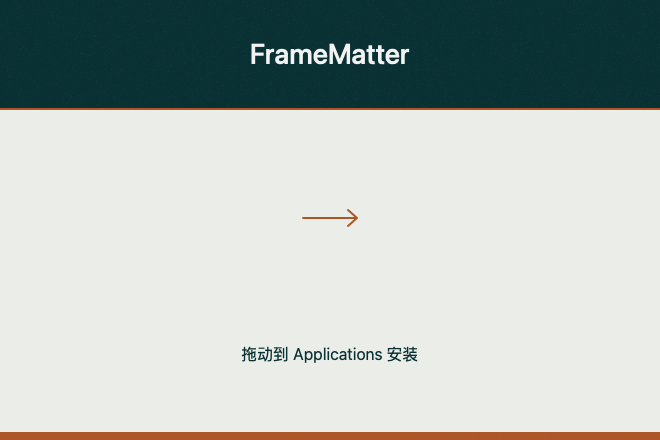
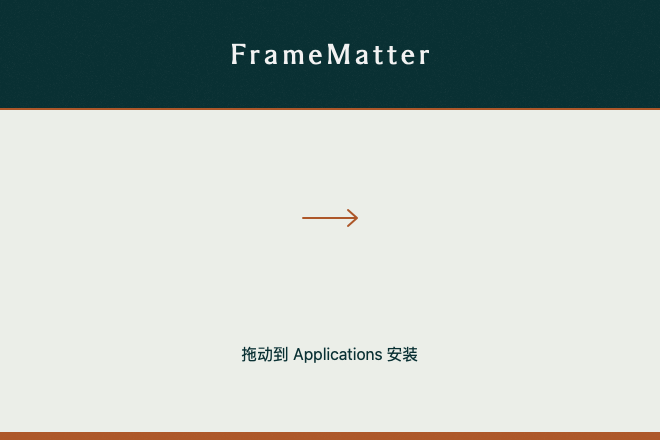
release: use approved option 4 DMG background

Changed region(s): [[0.3333, 0.0886, 0.6667, 0.1477]]

diff --git a/modern_UI/Spektrafilm/Tools/dmg/render-background.swift b/modern_UI/Spektrafilm/Tools/dmg/render-background.swift
@@ -1,8 +1,21 @@
 // Run: swift Tools/dmg/render-background.swift Tools/dmg
 // Then: tiffutil -cathidpicheck Tools/dmg/background{,@2x}.png -out Tools/dmg/background.tiff
 import AppKit
+import CoreText
 
 let output = URL(fileURLWithPath: CommandLine.arguments[1], isDirectory: true)
+// Supply a locally licensed font; the proprietary font is not distributed.
+guard let fontPath = ProcessInfo.processInfo.environment["DMG_TITLE_FONT_PATH"] else {
+    fatalError("Set DMG_TITLE_FONT_PATH to your licensed Sigma Serif Headline font")
+}
+let fontURL = URL(fileURLWithPath: fontPath)
+var fontError: Unmanaged<CFError>?
+guard CTFontManagerRegisterFontsForURL(fontURL as CFURL, .process, &fontError),
+      let titleFont = NSFont(name: "SigmaSerif-Headline", size: 28) else {
+    fatalError("Could not load Sigma Serif Headline: \(String(describing: fontError))")
+}
+assert(titleFont.fontName == "SigmaSerif-Headline")
+print("Title font: \(titleFont.fontName)")
 let teal = NSColor(srgbRed: 0.035, green: 0.19, blue: 0.20, alpha: 1)
 let copper = NSColor(srgbRed: 0.68, green: 0.34, blue: 0.16, alpha: 1)
 
@@ -36,10 +49,15 @@ for scale in [1, 2] {
         NSRect(x: x, y: y, width: 0.5, height: 0.5).fill()
     }
 
-    func text(_ string: String, y: CGFloat, size: CGFloat, color: NSColor, weight: NSFont.Weight) {
+    func text(_ string: String, y: CGFloat, color: NSColor, font: NSFont, tracking: CGFloat) {
         let attributes: [NSAttributedString.Key: Any] = [
-            .font: NSFont.systemFont(ofSize: size, weight: weight), .foregroundColor: color]
-        let label = NSAttributedString(string: string, attributes: attributes)
+            .font: font, .foregroundColor: color]
+        let label = NSMutableAttributedString(string: string, attributes: attributes)
+        if tracking != 0 {
+            label.addAttribute(.kern, value: tracking, range: NSRange(location: 0, length: label.length - 1))
+            assert(font.pointSize == 28 && tracking == 4.5)
+            print("Title: 28 pt; added tracking: 4.5 pt; width: \(label.size().width) pt; center: 330 pt")
+        }
         let bounds = label.size()
         context.saveGState()
         context.translateBy(x: (660 - bounds.width) / 2, y: y + bounds.height)
@@ -47,8 +65,8 @@ for scale in [1, 2] {
         label.draw(at: .zero)
         context.restoreGState()
     }
-    text("FrameMatter", y: 37, size: 28, color: .init(white: 0.95, alpha: 1), weight: .medium)
-    text("拖动到 Applications 安装", y: 345, size: 16, color: teal, weight: .regular)
+    text("FrameMatter", y: 37, color: .init(white: 0.95, alpha: 1), font: titleFont, tracking: 4.5)
+    text("拖动到 Applications 安装", y: 345, color: teal, font: .systemFont(ofSize: 16, weight: .regular), tracking: 0)
     copper.setStroke()
     let arrow = NSBezierPath()
     arrow.lineWidth = 2

diff --git a/modern_UI/Spektrafilm/Tools/dmg/README.md b/modern_UI/Spektrafilm/Tools/dmg/README.md
@@ -1,0 +1,10 @@
+# DMG background
+
+Approved option 4: Sigma Serif Headline at 28 pt with 4.5 pt additional tracking, centered in a 660 × 440 pt window. `background.tiff` contains 1× and 2× renditions and is used directly by `Tools/package.sh`.
+
+The font binary is not included in the repository or installer. Regenerating requires a locally supplied, appropriately licensed Sigma Serif Headline font:
+
+```sh
+DMG_TITLE_FONT_PATH=/path/to/font.woff swift Tools/dmg/render-background.swift Tools/dmg
+tiffutil -cathidpicheck Tools/dmg/background{,@2x}.png -out Tools/dmg/background.tiff
+```
